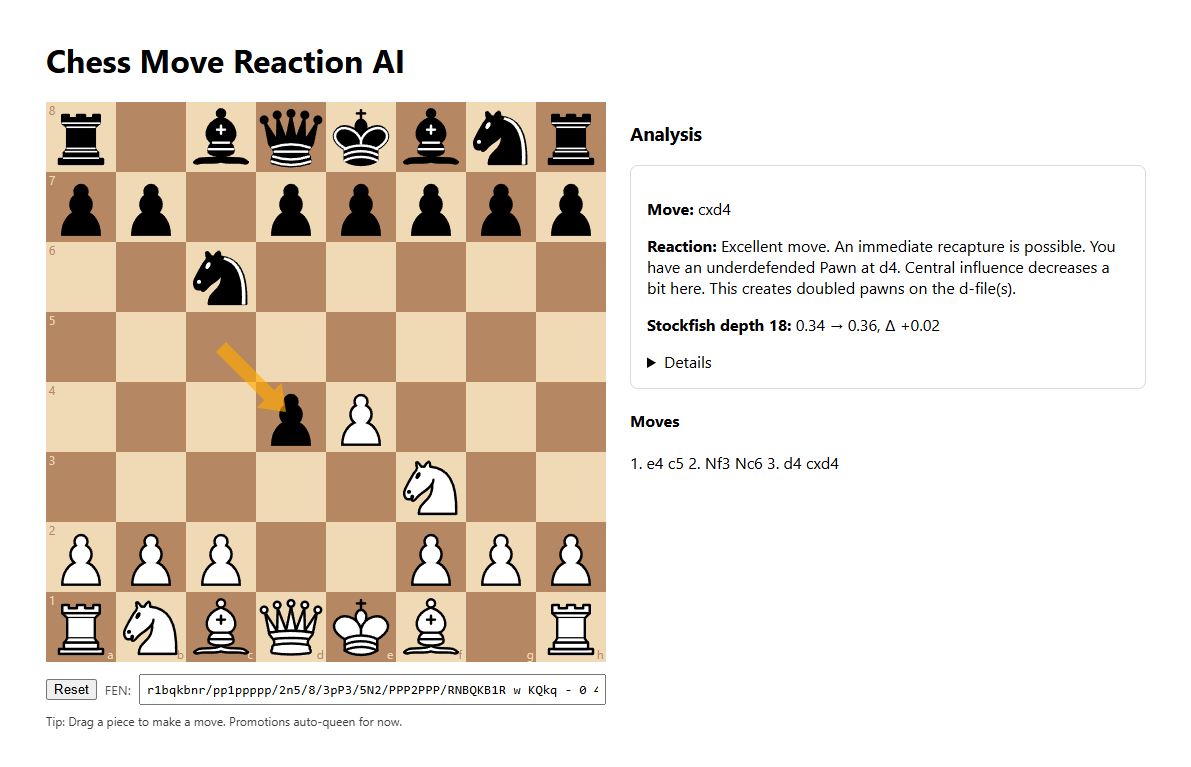
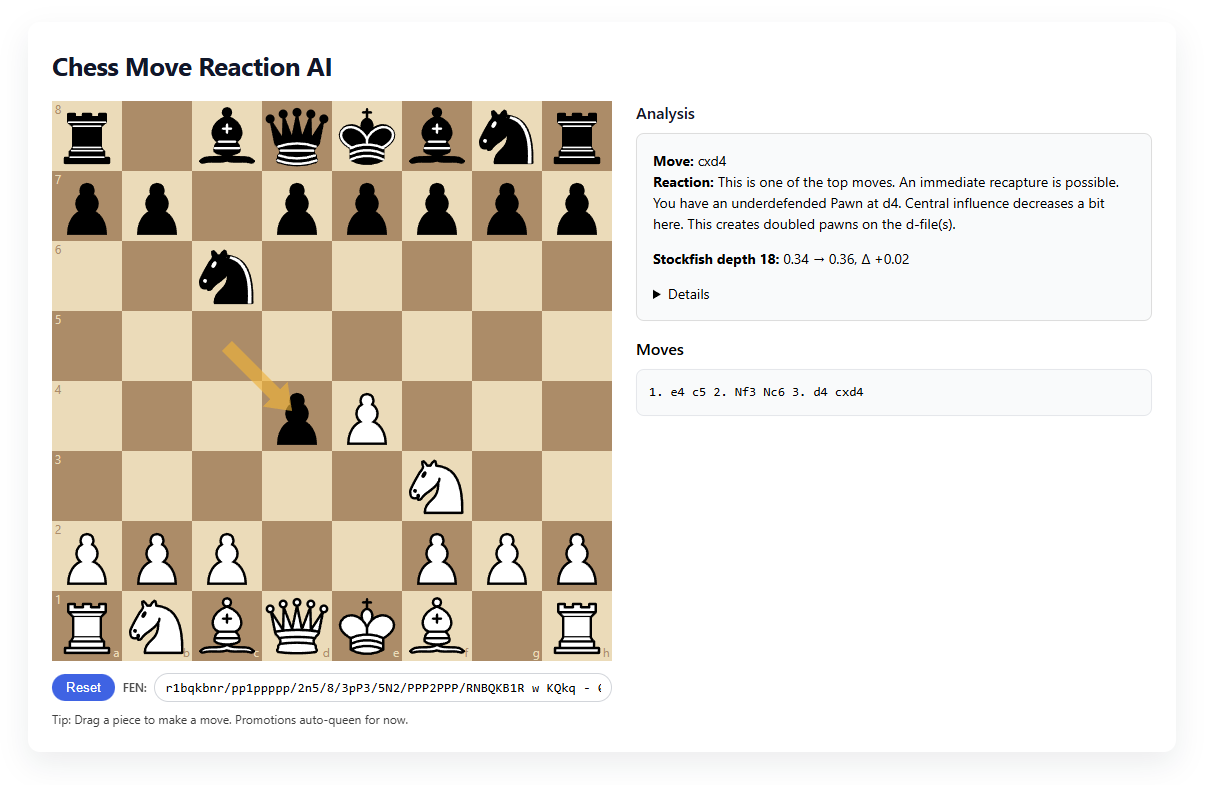
Updated README and styled Frontend.

Changed region(s): [[0.0311, 0.06, 0.932, 0.9596], [0.5281, 0.5997, 0.7145, 0.6297], [0.5281, 0.5398, 0.5903, 0.5698]]

diff --git a/frontend/src/App.tsx b/frontend/src/App.tsx
@@ -114,8 +114,19 @@ export default function App() {
   }
 
   return (
-    <div style={{ maxWidth: 1100, margin: "40px auto", fontFamily: "system-ui, Segoe UI, Roboto, Arial" }}>
-      <h1>Chess Move Reaction AI</h1>
+    <div
+      style={{
+        maxWidth: 1100,
+        margin: "40px auto",
+        padding: 24,
+        fontFamily: "system-ui, Segoe UI, Roboto, Arial",
+        borderRadius: 12,
+        boxShadow: "0 12px 30px rgba(15, 23, 42, 0.08)",
+        fontSize: 14,
+        lineHeight: 1.5
+      }}
+    >
+      <h1 style={{ margin: "0 0 16px", fontSize: 26, letterSpacing: "-0.02em", fontWeight: 700, color: "#0f172a" }}>Chess Move Reaction AI</h1>
 
       <div style={{ display: "grid", gridTemplateColumns: "minmax(320px, 560px) 1fr", gap: 24 }}>
         <div>
@@ -126,12 +137,26 @@ export default function App() {
             arePiecesDraggable={!loading}
           />
           <div style={{ marginTop: 12, display: "flex", gap: 8, alignItems: "center" }}>
-            <button onClick={setStart} disabled={loading}>Reset</button>
-            <small style={{ opacity: 0.7 }}>FEN:</small>
+            <button
+              onClick={setStart}
+              disabled={loading}
+              style={{
+                padding: "6px 14px",
+                borderRadius: 999,
+                border: "none",
+                backgroundColor: loading ? "#9ca3af" : "#2563eb",
+                color: "#ffffff",
+                fontWeight: 500,
+                cursor: loading ? "default" : "pointer"
+              }}
+            >
+              Reset
+            </button>
+            <small style={{ opacity: 0.7, fontWeight: 500 }}>FEN:</small>
             <input
               value={fen}
               onChange={(e) => setFen(e.target.value)}
-              style={{ flex: 1, minWidth: 0, fontFamily: "monospace", padding: 6 }}
+              style={{ flex: 1, minWidth: 0, fontFamily: "monospace", padding: "6px 10px", borderRadius: 999, border: "1px solid #d1d5db" }}
             />
           </div>
           <div style={{ marginTop: 8, fontSize: 12, opacity: 0.75 }}>
@@ -140,28 +165,56 @@ export default function App() {
         </div>
 
         <div>
-          <h3>Analysis</h3>
-          {loading && <p>Analyzing…</p>}
-          {error && <p style={{ color: "#b00020" }}><strong>Error:</strong> {error}</p>}
+          <h3 style={{ margin: "0 0 8px", fontSize: 16, fontWeight: 600, color: "#111827" }}>Analysis</h3>
+          {loading && <p style={{ color: "#6b7280", fontStyle: "italic", fontSize: 13, marginTop: 4 }}>Analyzing…</p>}
+          {error && (
+            <p
+              style={{
+                color: "#b00020",
+                backgroundColor: "rgba(176, 0, 32, 0.06)",
+                borderRadius: 8,
+                padding: "6px 8px",
+                border: "1px solid rgba(176, 0, 32, 0.25)",
+                marginTop: 8
+              }}
+            >
+              <strong>Error:</strong> {error}
+            </p>
+          )}
           {result && (
-            <div style={{ border: "1px solid #ddd", borderRadius: 8, padding: 16 }}>
-              <p><strong>Move:</strong> {result.normalized_move}</p>
-              <p><strong>Reaction:</strong> {result.reaction}</p>
+            <div style={{ border: "1px solid #ddd", borderRadius: 8, padding: 16, backgroundColor: "#f9fafb" }}>
+              <p style={{ margin: 0 }}><strong>Move:</strong> {result.normalized_move}</p>
+              <p style={{ margin: 0 }}><strong>Reaction:</strong> {result.reaction}</p>
               {evalBox}
               <details>
                 <summary>Details</summary>
-                <pre style={{ whiteSpace: "pre-wrap" }}>{JSON.stringify(result.details, null, 2)}</pre>
+                <pre
+                  style={{
+                    whiteSpace: "pre-wrap",
+                    backgroundColor: "#0b1120",
+                    color: "#e5e7eb",
+                    padding: 8,
+                    borderRadius: 6,
+                    fontSize: 12,
+                    maxHeight: 240,
+                    overflow: "auto"
+                  }}
+                >
+                  {JSON.stringify(result.details, null, 2)}
+                </pre>
               </details>
             </div>
           )}
           {history.length > 0 && (
             <div style={{ marginTop: 16 }}>
-              <h4>Moves</h4>
-              <p>
+              <h4 style={{ margin: "0 0 8px", fontSize: 16, fontWeight: 600 }}>Moves</h4>
+              <div style={{ border: "1px solid #e5e7eb", borderRadius: 8, padding: 12, backgroundColor: "#f9fafb" }}>
+                <p style={{ margin: 0, fontFamily: "monospace", fontSize: 13, lineHeight: 1.6 }}>
                 {history.map((m, i) =>
                   i % 2 === 0 ? `${Math.floor(i / 2) + 1}. ${m}` : m
                 ).join(" ")}
-              </p>
+                </p>
+              </div>
             </div>
           )}
         </div>

diff --git a/README.md b/README.md
@@ -1,5 +1,6 @@
 # Chess Move Reaction AI
-Chess engines give raw scores and best lines, but not explanations, reasons, or reactions. Many chess players would appreciate AI that feels like a coach or informed spectator: it evaluates a move and reacts with both logic and tone (“Prudent choice! That move improves your position because of x, y, z.” or “Careful. That square is dangerous, your piece may be in danger.”). Beyond the scope of this project, the concept could be expanded into customized spectator/companion bots, i.e. famous players or commentators.
+Chess engines give raw quantitative scores and best lines, but not explanations, reasons, or reactions. This results in unengaging feedback that is often unclear to humans. Many chess players would appreciate AI that feels like a coach or informed spectator: it evaluates a move and reacts with both logic and tone (“Great fork! This move wins material.” or “Prudent choice to move your king to a safer square.” or “Careful. That move hangs a piece.”). Beyond the scope of this project, the concept could be expanded into customized spectator/companion bots, i.e. famous players or commentators. This could result in engaging new learning opportunities with regard to chess.
+The aim of our project is to create an early version of a Chess Move Reaction AI. To do this, we aim to represent a chess board state, receive an input chess move, and to extract features from the chess board state that we can then utilize via algorithms, logic, and heuristics in order to generate a text-based reaction with associated reasons. This project was initially intended to be interfaced with via CLI (command-line-interface), but has been expanded to a GUI (graphical user interface) that is clearer, faster, and more intuitive to use.
 
 ## Prereqs
 - Node.js
@@ -47,3 +48,5 @@ python cli.py --fen "rnbqkbnr/pppppppp/8/8/8/8/PPPPPPPP/RNBQKBNR w KQkq - 0 1" -
 - API: `POST /api/analyze` with `{ "fen": "...", "move": "Nf3|g1f3" }` returns `{ ok, normalized_move, reaction, details }`.
 - Can be used via CLI or via `react-chessboard` + `chess.js` frontend for drag-and-drop moves.
 - We accept both SAN (i.e. Nf3 -- human preferred) and UCI (fixed coordinate form i.e. g1f3 -- used by python-chess, engines, etc), store/log moves internally as UCI for consistency, and display explanations in SAN for readability.
+
+## Future 
